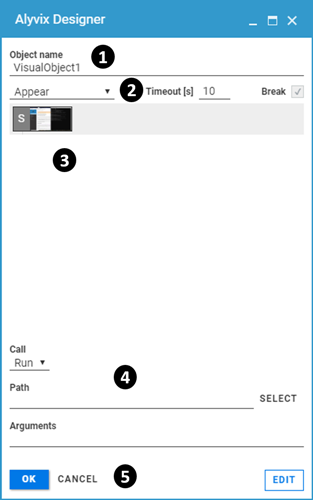
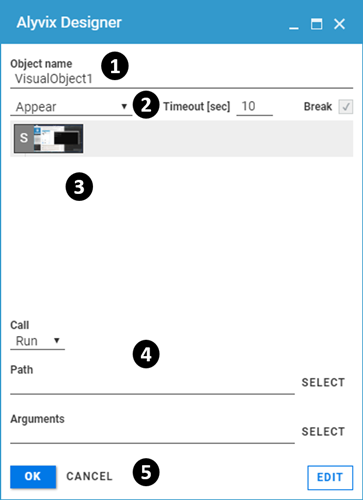
Update Designer screenshots, new video tutorials

Changed region(s): [[0.0, 0.03, 1.0, 1.0], [0.8339, 0.75, 0.9489, 0.81]]

diff --git a/test_case_building/designer_strings.rst b/test_case_building/designer_strings.rst
@@ -1,6 +1,6 @@
 :author: Charles Callaway
 :date: 05-12-2019
-:modified: 21-08-2020
+:modified: 15-10-2020
 :tags: designer
 :lang: en-US
 :translation: false
@@ -58,9 +58,11 @@ the :guilabel:`String` field, in which case that field specifies how they should
 The extraction and mapping functions have a common purpose:  to substitute text from a source
 string into a template string, and then send the resulting string to the application.
 
-If the text is supposed to come from the screen, the typical approach is to have two separate
+If the text is extracted directly from the screen, you will typically need to have two separate
 test case objects:  one which acquires the text from the screen, and another containing the
-template which inserts the text into the GUI object.  Otherwise, only a single object is necessary.
+template which inserts the text into the GUI object (the second object must occur chronologically
+after the first, ore else the text string will not yet have been scraped).  If the text comes
+from one of the two external sources (map or arguments), only a single test caseobject is necessary.
 
 
 
@@ -172,7 +174,7 @@ web page or in a spreadsheet with this :guilabel:`String` field entry:
 Text can also be inserted from a command line parameter passed to Alyvix Robot.
 
 To use this capability, :ref:`pass Alyvix Robot the argument <alyvix_robot_cli_launch>` as a
-simple keyword after the ``-a`` parameter to, and type the ``{<number>}`` notation into the
+simple keyword after the ``-a`` parameter, and type the ``{<number>}`` notation into the
 :guilabel:`String` field of the test case object that should insert the text.  For instance in
 the string below, passing the parameter ``-a Red`` will result in the text ``Color: Red``
 appearing in the target text field of the application.

diff --git a/videos_and_tutorials/production_systems_tutorials.rst b/videos_and_tutorials/production_systems_tutorials.rst
@@ -1,6 +1,6 @@
 :author: Charles Callaway
 :date: 21-05-2020
-:modified: 21-09-2020
+:modified: 21-10-2020
 :tags: videos, tutorials
 :lang: en-US
 :translation: false
@@ -16,10 +16,29 @@
 Production Systems Video Tutorials
 ==================================
 
+.. topic:: Microsoft Dynamics AX 2012 R3 General Ledger
+
+   You can use Alyvix to monitor streamed applications such as Microsoft Dynamics AX/365.  This
+   video an example using the General Ledger section to show you how you can build a test case
+   in AX, featuring the following elements:
+
+   * Launching AX and drilling down to details
+   * Filtering selection
+   * Using groups and why
+   * Appropriate Fail/Exit strategies
+
+.. image:: images/production-dax2012-ledger-312.png
+   :class: image-boxshadow
+   :alt: Microsoft Dynamics AX 2012 R3 General Ledger tutorial video, version 3.1.2
+   :target: https://youtu.be/cW87feKJbAU
+
+|source-youtube|
+
+
 .. topic:: Microsoft Dynamics AX 2012 R3 Full Example
 
-   You can use Alyvix to monitor streamed applications such as Dynamics AX/365.  This video
-   provides a completely worked example showing you how you can build a test case in AX,
+   You can use Alyvix to monitor streamed applications such as Microsoft Dynamics AX/365.  This
+   video provides a completely worked example showing you how you can build a test case in AX,
    featuring the following elements:
 
    * Launching AX and window maximization

diff --git a/test_case_building/designer_component_options.rst b/test_case_building/designer_component_options.rst
@@ -1,6 +1,6 @@
 :author: Charles Callaway
 :date: 05-12-2019
-:modified: 08-10-2020
+:modified: 15-10-2020
 :tags: designer
 :lang: en-US
 :translation: false
@@ -46,11 +46,6 @@ node :greyblock:`S` is selected:
    :class: image-boxshadow
    :alt: Options for the root element.
 
-.. todo::
-
-   Update this screenshot, which should include SELECT for the Arguments field; how do you use
-   the SELECT button for arguments, rather than typing them in?
-
 The **Call** dropdown tells Alyvix what action to perform when the test case object is executed:
 
 * **Run:**  Start a Windows application
@@ -63,8 +58,9 @@ URL as an argument.  To do this, select **Run** and set its two parameters:
 
 * **Path:**  Use the :nobutton:`SELECT` button to bring up a file selection dialog to find the
   application in the file system, or else type the full path for an executable file in your system
-* **Arguments:**  Here you can enter the arguments the application expects when
-  it starts up
+* **Arguments:**  Here you can enter the arguments the application expects when it starts up --
+  the :nobutton:`SELECT` button will let you insert a file with its full path, but replaces the
+  existing content, so use it first before adding any other arguments
 
 If you paste a path into the **Path** field instead of using the :nobutton:`SELECT` button, you
 should not include any quotation marks even if there are spaces in the path.

diff --git a/test_case_building/designer_interface_overview.rst b/test_case_building/designer_interface_overview.rst
@@ -1,6 +1,6 @@
 :author: Charles Callaway
 :date: 06-12-2019
-:modified: 06-10-2020
+:modified: 15-10-2020
 :tags: designer, gui, overview
 :lang: en-US
 :translation: false
@@ -64,7 +64,9 @@ no groups (or components) have yet been defined.  The principle interface elemen
 #. The **Object name** (title) of the test case object, which together with the file name is used
    to uniquely identify this test case object in Alyvix Selector and Editor
 #. **Test case object** :ref:`options <alyvix_designer_options_test_case_object>`, which affect
-   all visual elements in the component tree as a whole
+   all visual elements in the component tree as a whole; when run from Alyvix Editor, the
+   *Timeout* and *Break* options will be shown instead in the
+   :ref:`Selector panel <alyvix_selector_interface_screenshot>`
 #. The :iconlink:`gloss|component tree|../glossary.html#glossary-component-tree`
    :ref:`subpanel <alyvix_designer_component_tree_top>`, showing all defined selections and regions
    of interest that can be interacted with along with their type (image, region or text)

diff --git a/video_tutorials.rst b/video_tutorials.rst
@@ -1,6 +1,6 @@
 :author: Charles Callaway
 :date: 30-03-2020
-:modified: 14-10-2020
+:modified: 21-10-2020
 :tags: videos, tutorials
 :lang: en-US
 :translation: false
@@ -31,6 +31,7 @@ This page presents all Alylvix 3 videos and tutorials, classified by task type.
 #. :ref:`Production Systems <production_systems_tutorials_top>` tutorials describing techniques
    based on real world production examples
 
+   * Microsoft Dynamics AX 2012 R3 General Ledger |halftab| :shadow:`(video #17 - 6'27")`
    * Microsoft Dynamics AX 2012 R3 Full Example |halftab| :shadow:`(video #15 - 9'55")`
    * Multi-Factor Authentication Login |halftab| :shadow:`(video #13 - 9'54")`
    * Secure Citrix Login |halftab| :shadow:`(video #7 - 5'26")`

diff --git a/test_case_execution.rst b/test_case_execution.rst
@@ -1,6 +1,6 @@
 :author: Charles Callaway
 :date: 06-12-2019
-:modified: 05-10-2020
+:modified: 15-10-2020
 :tags: robot, execution, test cases
 :lang: en-US
 :translation: false
@@ -179,7 +179,12 @@ For example:
 
 
 When run from the command prompt with the default **-m alyvix** parameter, Alyvix Robot will
-return human-readable output like the following when successful:
+return human-readable output :iconlink:`video||https://youtu.be/KS0oKjWCDUU`
+like the following when successful:
+
+.. todo::
+
+   It would be better if the link pointed to our specific video tutorial rather than YouTube directly
 
 .. code-block:: md
    :class: nocopy

diff --git a/videos_and_tutorials/operations_tutorials.rst b/videos_and_tutorials/operations_tutorials.rst
@@ -146,6 +146,6 @@ Operations Video Tutorials
 .. image:: images/operations-outputcomposition-311.png
    :class: image-boxshadow
    :alt: Output composition tutorial video, version 3.1.1
-   :target: https://youtu.be/4AJz-LzXwmE
+   :target: https://youtu.be/KS0oKjWCDUU
 
 |source-youtube|
